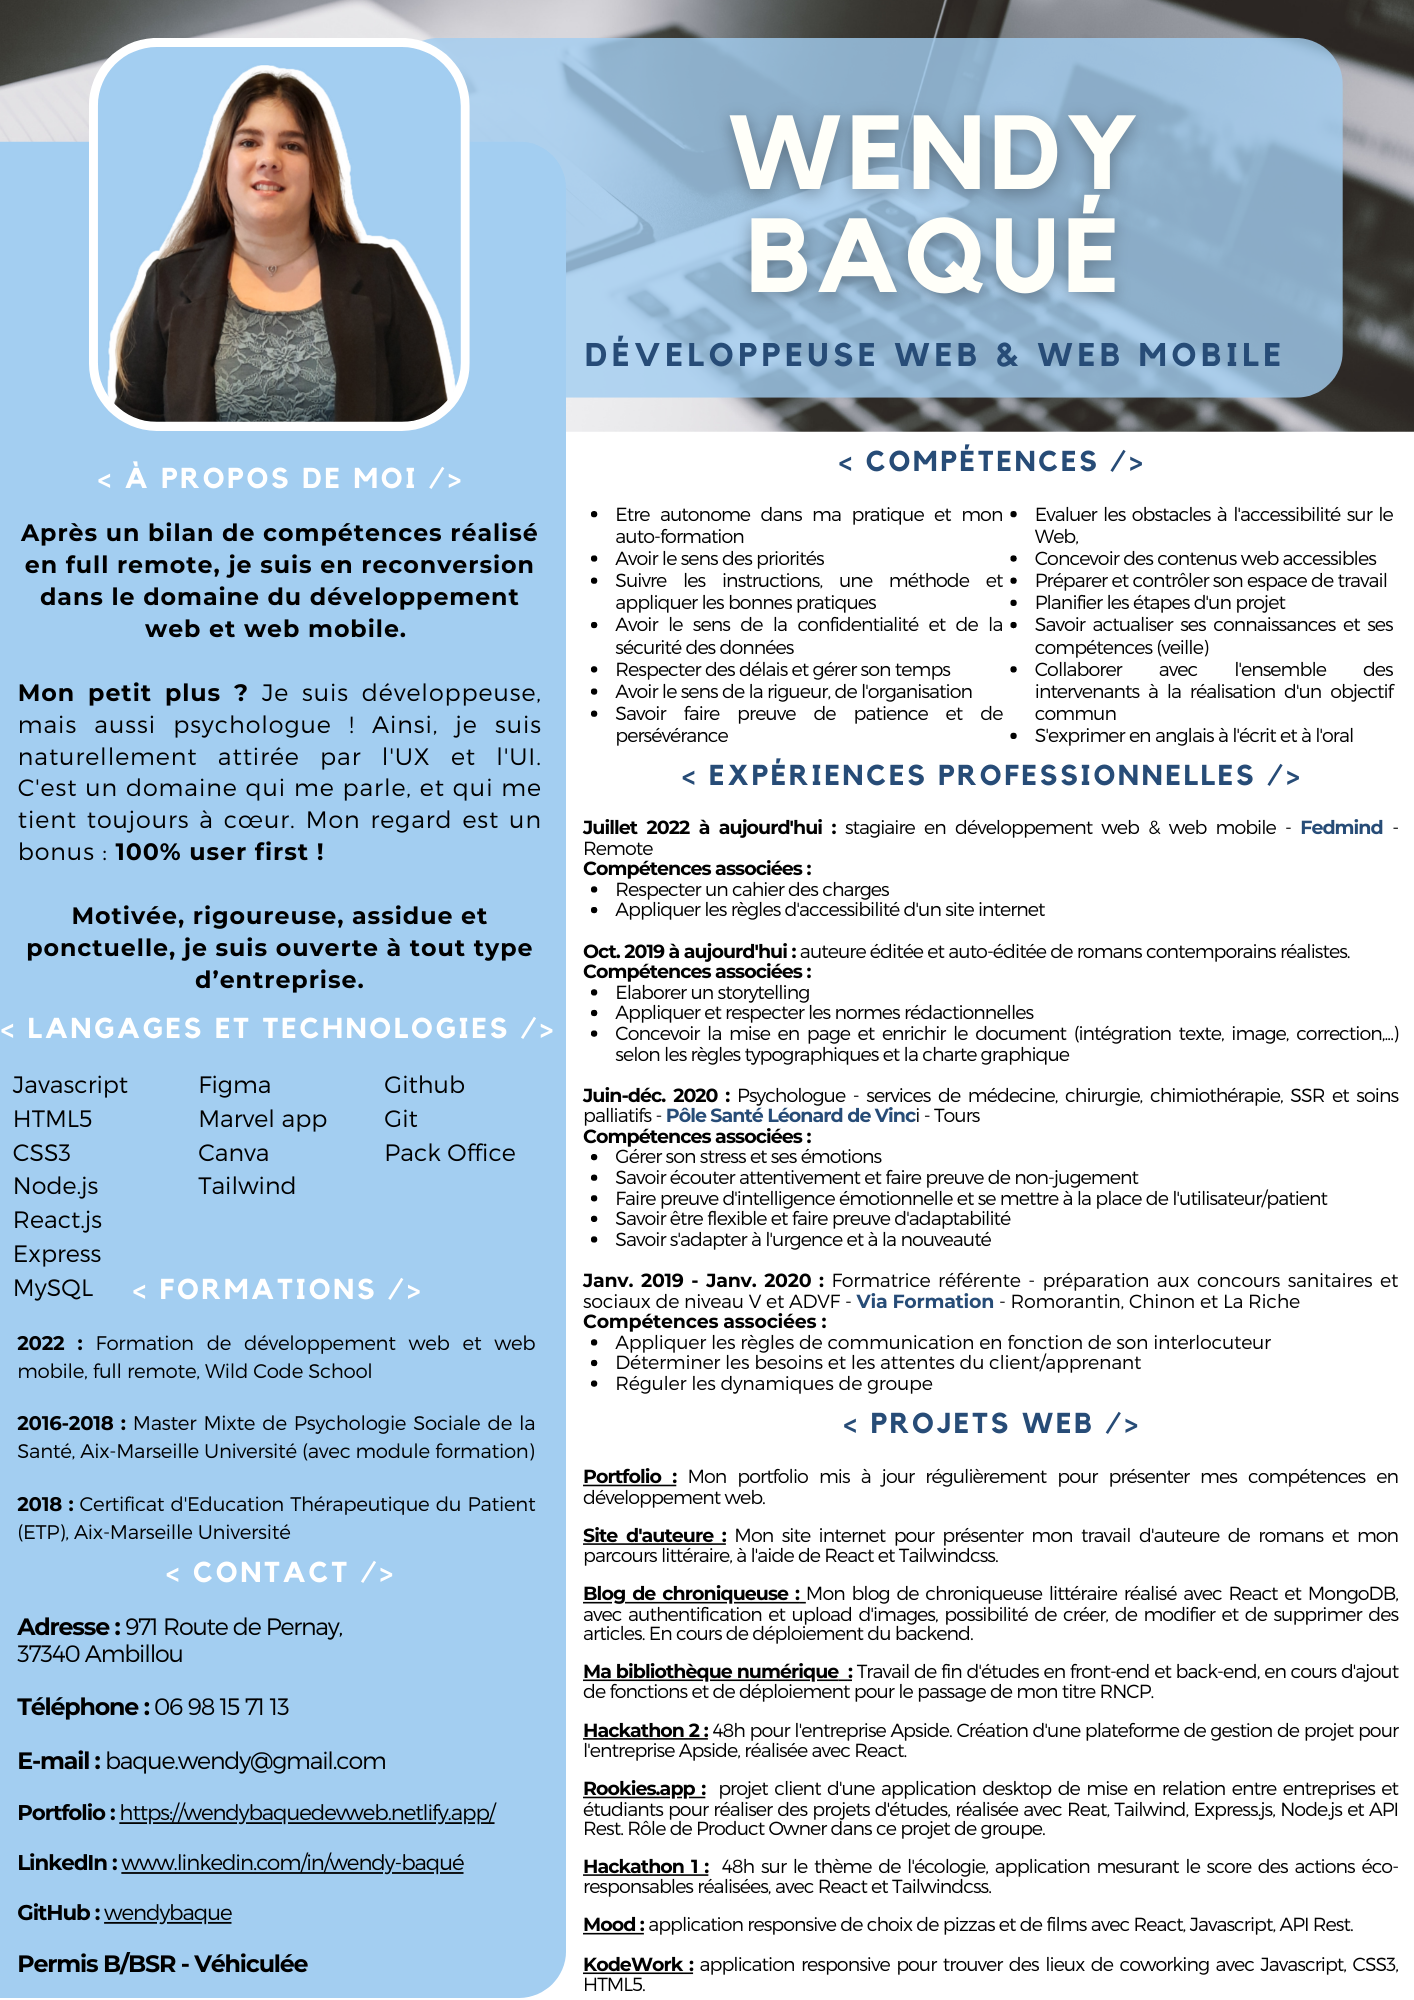
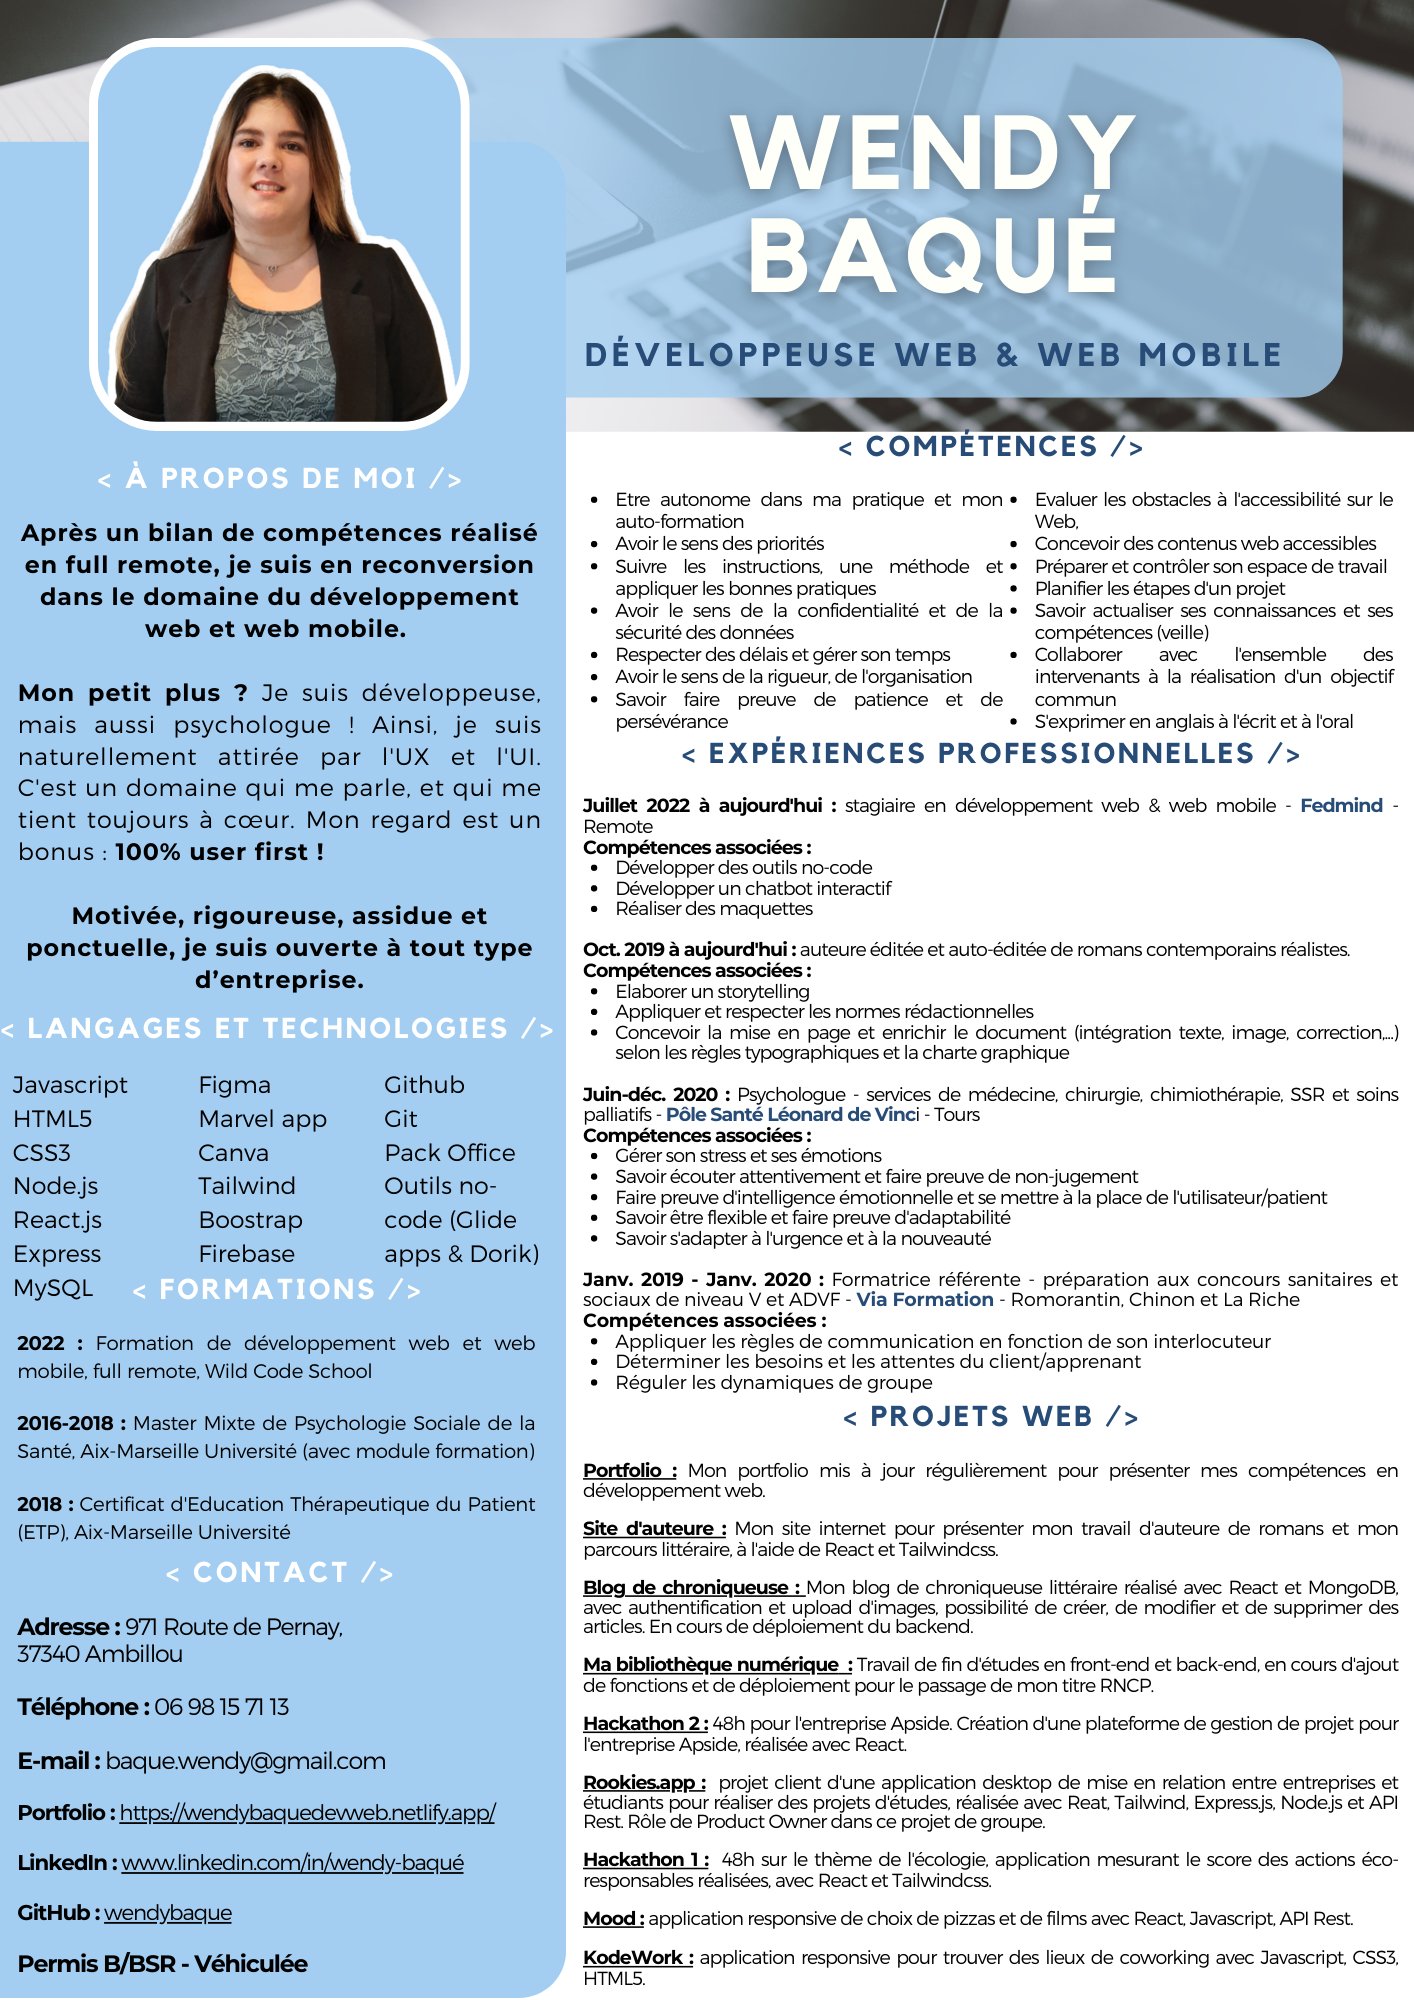
Update projects and skills

diff --git a/src/components/ProjectCard.jsx b/src/components/ProjectCard.jsx
@@ -36,6 +36,28 @@ const data = [
 
   {
     id: 4,
+    title: "Marvel quiz",
+    img: "https://www.hebergeur-image.com/upload/88.174.47.6-6316011f2e0ba.png",
+    techno: "React | fetch d'API | Firebase",
+    descr:
+      "Application de quiz sur le thème de Marvel, réalisée dans le cadre du cours Udemy sur React, avec déploiement sur Firebase.",
+    code: "https://github.com/wendybaque/Marvel-Quiz-React",
+    page: "https://marvel-quiz-91110.web.app/",
+  },
+
+  {
+    id: 5,
+    title: "Redux Book",
+    img: "https://www.hebergeur-image.com/upload/88.174.47.6-6315fec888163.png",
+    techno: "React | Redux | fetch d'API | Bootstrap",
+    descr:
+      "Application de librairie, avec ajout, recherche et suppression de livres, réalisée dans le cadre du cours Udemy sur Redux.",
+    code: "https://github.com/wendybaque/React-Redux-Book-App",
+    page: "https://react-redux-book-app.vercel.app/",
+  },
+
+  {
+    id: 4,
     title: "Project for fun | English dictionnary",
     img: "https://www.hebergeur-image.com/upload/88.174.47.6-62df9faeb10b7.png",
     techno: "React | Tailwindcss | Fetch d'API",
@@ -131,27 +153,27 @@ const data = [
   },
 
 
-  {
-    id: 13,
-    title: "Workshop - Menu de restaurant",
-    img: "https://www.hebergeur-image.com/upload/176.154.198.164-62a9a18381a86.png",
-    techno: "React props and state",
-    descr:
-      "Exercice d'études visant à mettre en pratique les props et le state de React pour créer un menu de restaurant dynamique en fonction des actions de l'utilisateur.",
-    code: "https://codesandbox.io/s/r27u2l?file=/public/index.html",
-    page: "https://r27u2l.csb.app/",
-  },
+  // {
+  //   id: 13,
+  //   title: "Workshop - Menu de restaurant",
+  //   img: "https://www.hebergeur-image.com/upload/176.154.198.164-62a9a18381a86.png",
+  //   techno: "React props and state",
+  //   descr:
+  //     "Exercice d'études visant à mettre en pratique les props et le state de React pour créer un menu de restaurant dynamique en fonction des actions de l'utilisateur.",
+  //   code: "https://codesandbox.io/s/r27u2l?file=/public/index.html",
+  //   page: "https://r27u2l.csb.app/",
+  // },
 
-  {
-    id: 14,
-    title: "Workshop - Citations des Simpsons",
-    img: "https://www.hebergeur-image.com/upload/176.154.198.164-62a9a1c1651ab.png",
-    techno: "React fetch, axios et API",
-    descr:
-      "Exercice d'études visant à fetcher les données d'une API avec React. Si l'on clique sur le bouton, une citation de Simpson aléatoire apparaît.",
-    code: "https://codesandbox.io/s/0b4euv",
-    page: "https://0b4euv.csb.app/",
-  },
+  // {
+  //   id: 14,
+  //   title: "Workshop - Citations des Simpsons",
+  //   img: "https://www.hebergeur-image.com/upload/176.154.198.164-62a9a1c1651ab.png",
+  //   techno: "React fetch, axios et API",
+  //   descr:
+  //     "Exercice d'études visant à fetcher les données d'une API avec React. Si l'on clique sur le bouton, une citation de Simpson aléatoire apparaît.",
+  //   code: "https://codesandbox.io/s/0b4euv",
+  //   page: "https://0b4euv.csb.app/",
+  // },
 
   {
     id: 15,

diff --git a/src/components/Skills.jsx b/src/components/Skills.jsx
@@ -16,6 +16,8 @@ import bootstrap from "../assets/bootstrap.png";
 import styled from "../assets/styledcomponents.png";
 import glide from "../assets/glide.png";
 import dorik from "../assets/dorik.svg";
+import redux from '../assets/redux.png';
+import firebase from '../assets/firebase.png'
 
 import "./skills.css";
 
@@ -38,6 +40,10 @@ function Skills() {
         <div className="card" aria-label="skill card">
           <img src={react} alt="Logo React" className="skill-img" />
           <h3 className="skill-card-title">React.js</h3>
+        </div>
+        <div className="card" aria-label="skill card">
+          <img src={redux} alt="Logo Redux" className="skill-img" />
+          <h3 className="skill-card-title">Redux</h3>
         </div>
         <div className="card" aria-label="skill card">
           <img
@@ -82,6 +88,14 @@ function Skills() {
             className="skill-img"
           />
           <h1 className="skill-card-title">MongoDB</h1>
+        </div>
+        <div className="card" aria-label="skill card">
+          <img
+            src={firebase}
+            alt="Logo Firebase"
+            className="skill-img"
+          />
+          <h1 className="skill-card-title">Firebase</h1>
         </div>
         </div>
 
